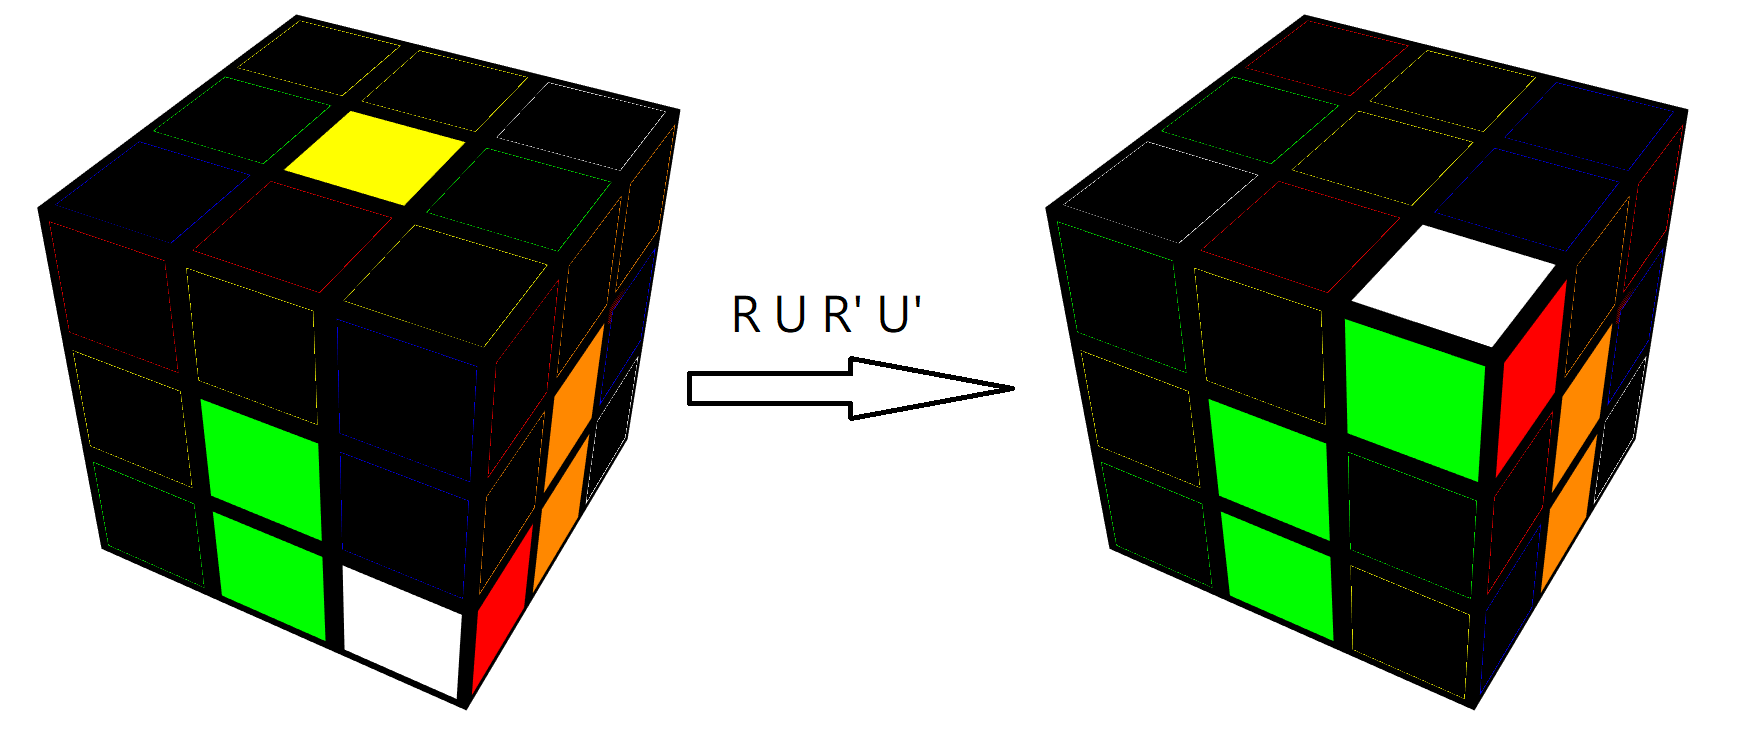
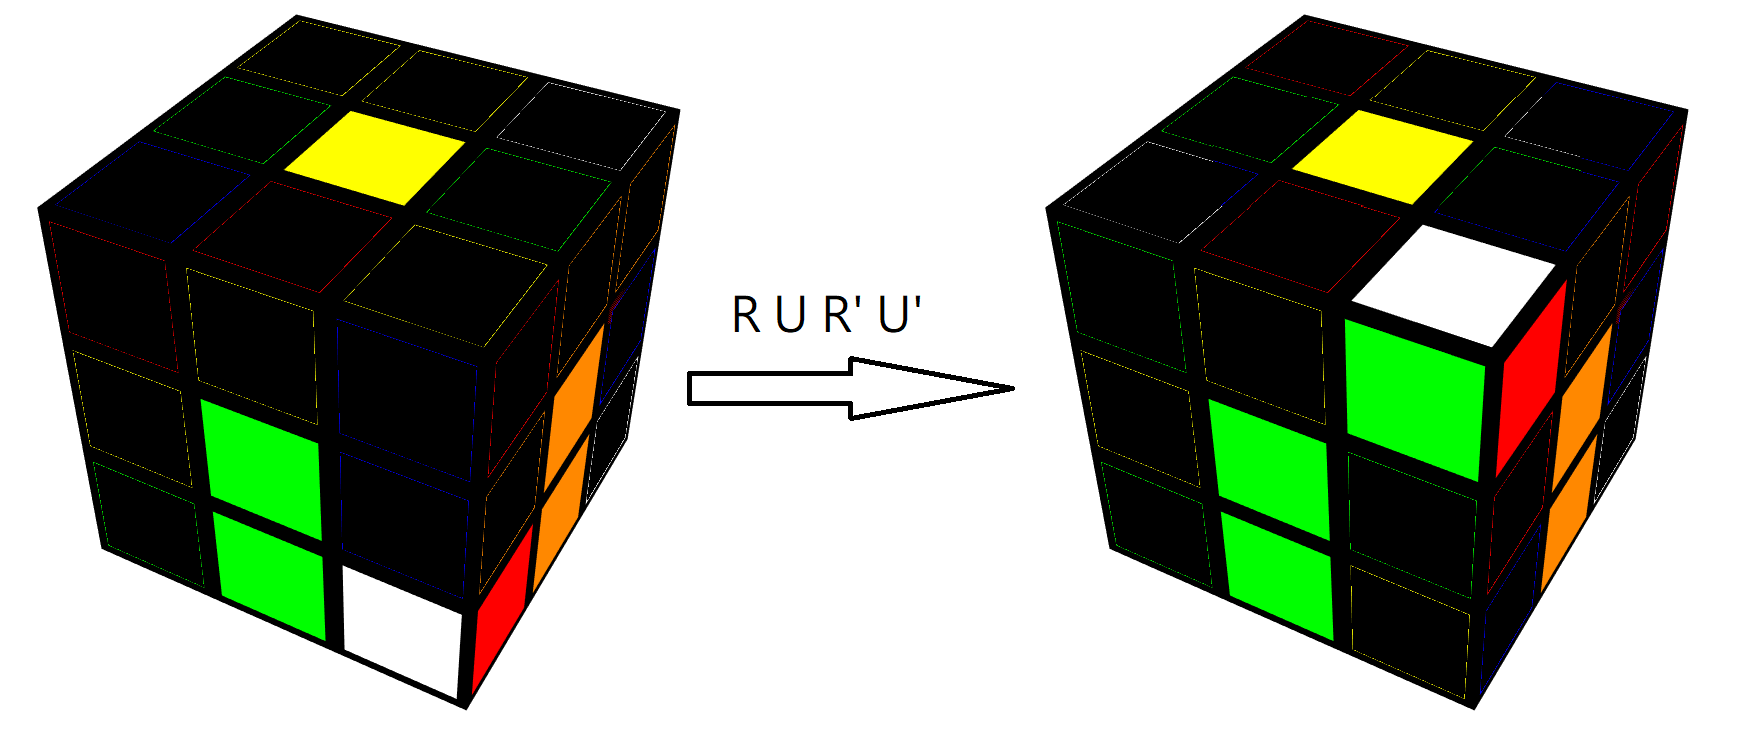
2019/11/8 21:08

Changed region(s): [[0.7431, 0.125, 0.8979, 0.2812]]

diff --git a/index.html b/index.html
@@ -163,14 +163,26 @@
         <img src="./images/second_sample1_explain.png" class="intro_img">
       </div>
 
-      <div>
+      <div class="flex-main">
         <p style="padding-top: 40px">確認以上兩點後，就是完成公式啦！</p>
-        <p>先介紹往邊塊右下放的作法</p>
-        <p>首先，先做U R U' R'把邊塊跟角塊組合在一起</p>
-        <p>接下來做一個y(把右面翻到自己前面)</p>
-        <p>再做U' L' U L 把邊塊和角塊一起放回原來的空槽</p>
+        <p>以下先介紹往邊塊右下放的作法。首先，先做U R U' R'把邊塊和角塊組合在一起。接下來做一個y(把右面翻到自己前面)，再做U' L' U L 把邊塊和角塊一起放回原來的空槽。</p>
         <p>(注意：因為剛剛有一個y的動作，所以空槽從右邊移到了左邊)</p>
         <img src="./images/second_case1.png" class="intro_img">
+      </div>
+
+      <div class="flex-main">
+        <p style="padding-top: 40px">接下來介紹跟剛剛左右對稱的情況，也就是把邊塊往左下方放。</p>
+        <img src="./images/second_sample2_explain.png" class="intro_img">
+        <p>首先，先做U' L' U L 組合邊塊和角塊。接下來做一個y' (把左面翻到自己前面)，最後再做U R U' R'把邊塊和角塊一起放回原來的空槽。 </p>
+        <img src="./images/second_case2.png" class="intro_img">
+      </div>
+
+      <div class="flex-main">
+        <p style="padding-top: 40px">令人難過的是，第二層也有一些麻煩的狀況要處理...</p>
+        <p>有時候會發現第三層找不到任何第二層的邊塊，仔細看一下發現都在第二層，但方向和位置卻不正確</p>
+        <img src="./images/second_special.png" class="intro_img">
+        <p>這時，可以用上面的公式，將任一邊塊取代放錯邊塊的位置，這樣原本放錯的邊塊就會被擠到第三層，接下來就能再用原本的方法把邊塊放入正確的位置了。</p>
+        <img src="./images/second_special_solve.png" class="intro_img">
       </div>
       
     </div>

diff --git a/style.css b/style.css
@@ -90,7 +90,7 @@ h3 {
 
 p {
     font-size: 24px;
-    padding: 0px 250px;
+    padding: 0px 300px;
     text-align: center;
 }
 
@@ -100,6 +100,7 @@ p {
     }
     h3 {
         font-size: 20px;
+        padding: 0;
     }
     p {
         font-size: 16px;
